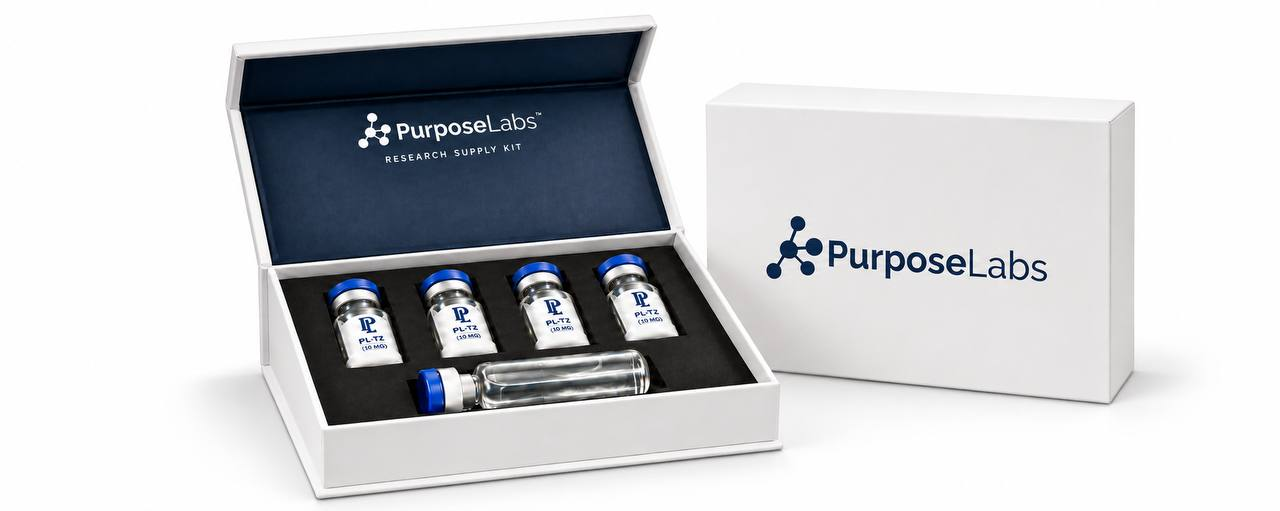
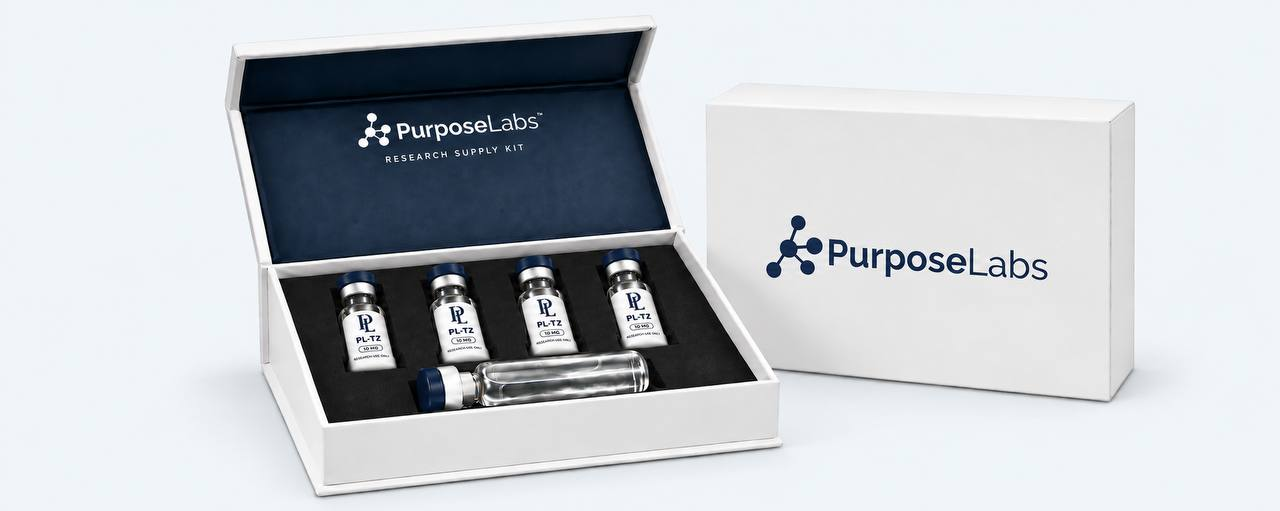
feat: luxury kit box image — color-matched, no animation, clean render

diff --git a/src/components/home/HowToClaimFreeVial.tsx b/src/components/home/HowToClaimFreeVial.tsx
@@ -85,29 +85,15 @@ export function HowToClaimFreeVial() {
             </Link>
           </div>
 
-          {/* Right — Floating box image */}
+          {/* Right — Kit image */}
           <div className="relative flex flex-1 items-center justify-center">
-            <style>{`
-              @keyframes box-float {
-                0%, 100% { transform: translateY(0px); }
-                50%       { transform: translateY(-16px); }
-              }
-              .kit-box-img {
-                animation: box-float 6s ease-in-out infinite;
-                mix-blend-mode: multiply;
-                filter: drop-shadow(0 20px 40px rgba(27,42,74,0.12));
-                max-width: 480px;
-                width: 100%;
-                height: auto;
-                object-fit: contain;
-              }
-            `}</style>
             <Image
               src="/pl-research-kit-box.jpg"
               alt="Purpose Labs Research Supply Kit"
-              width={580}
-              height={440}
-              className="kit-box-img"
+              width={640}
+              height={420}
+              className="h-auto w-full object-contain"
+              style={{ maxWidth: 540 }}
               priority={false}
             />
           </div>
